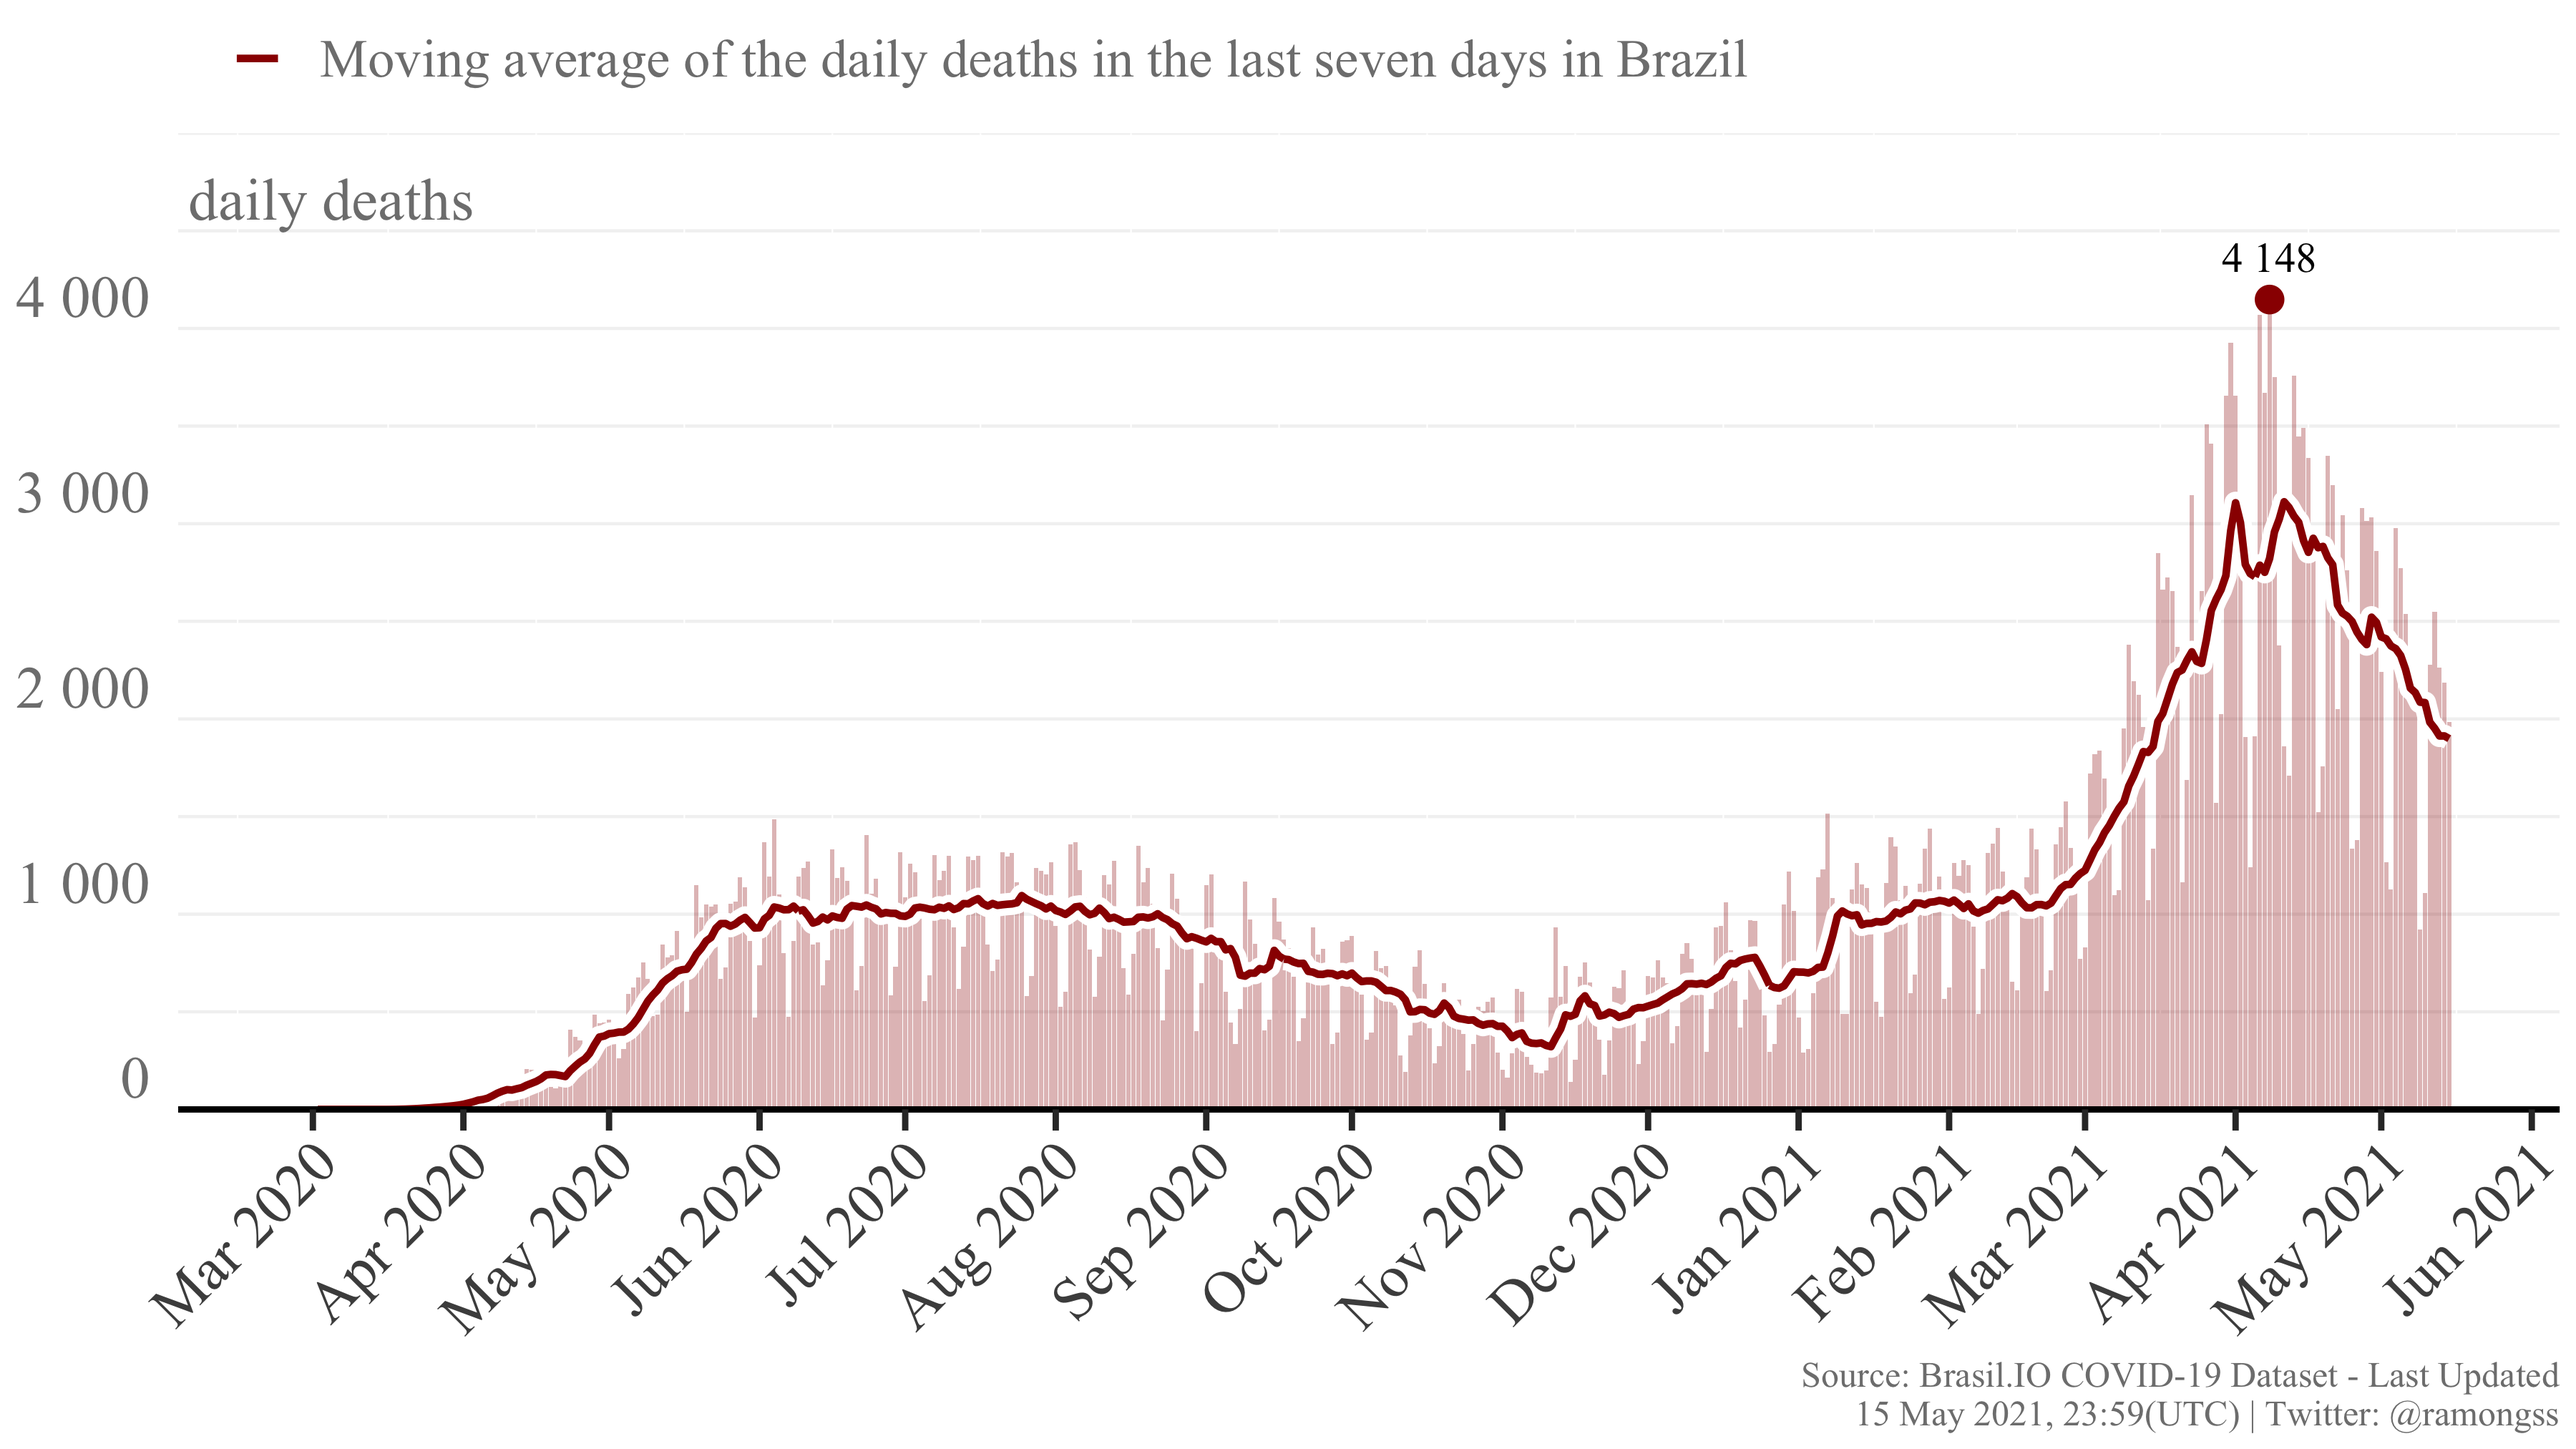
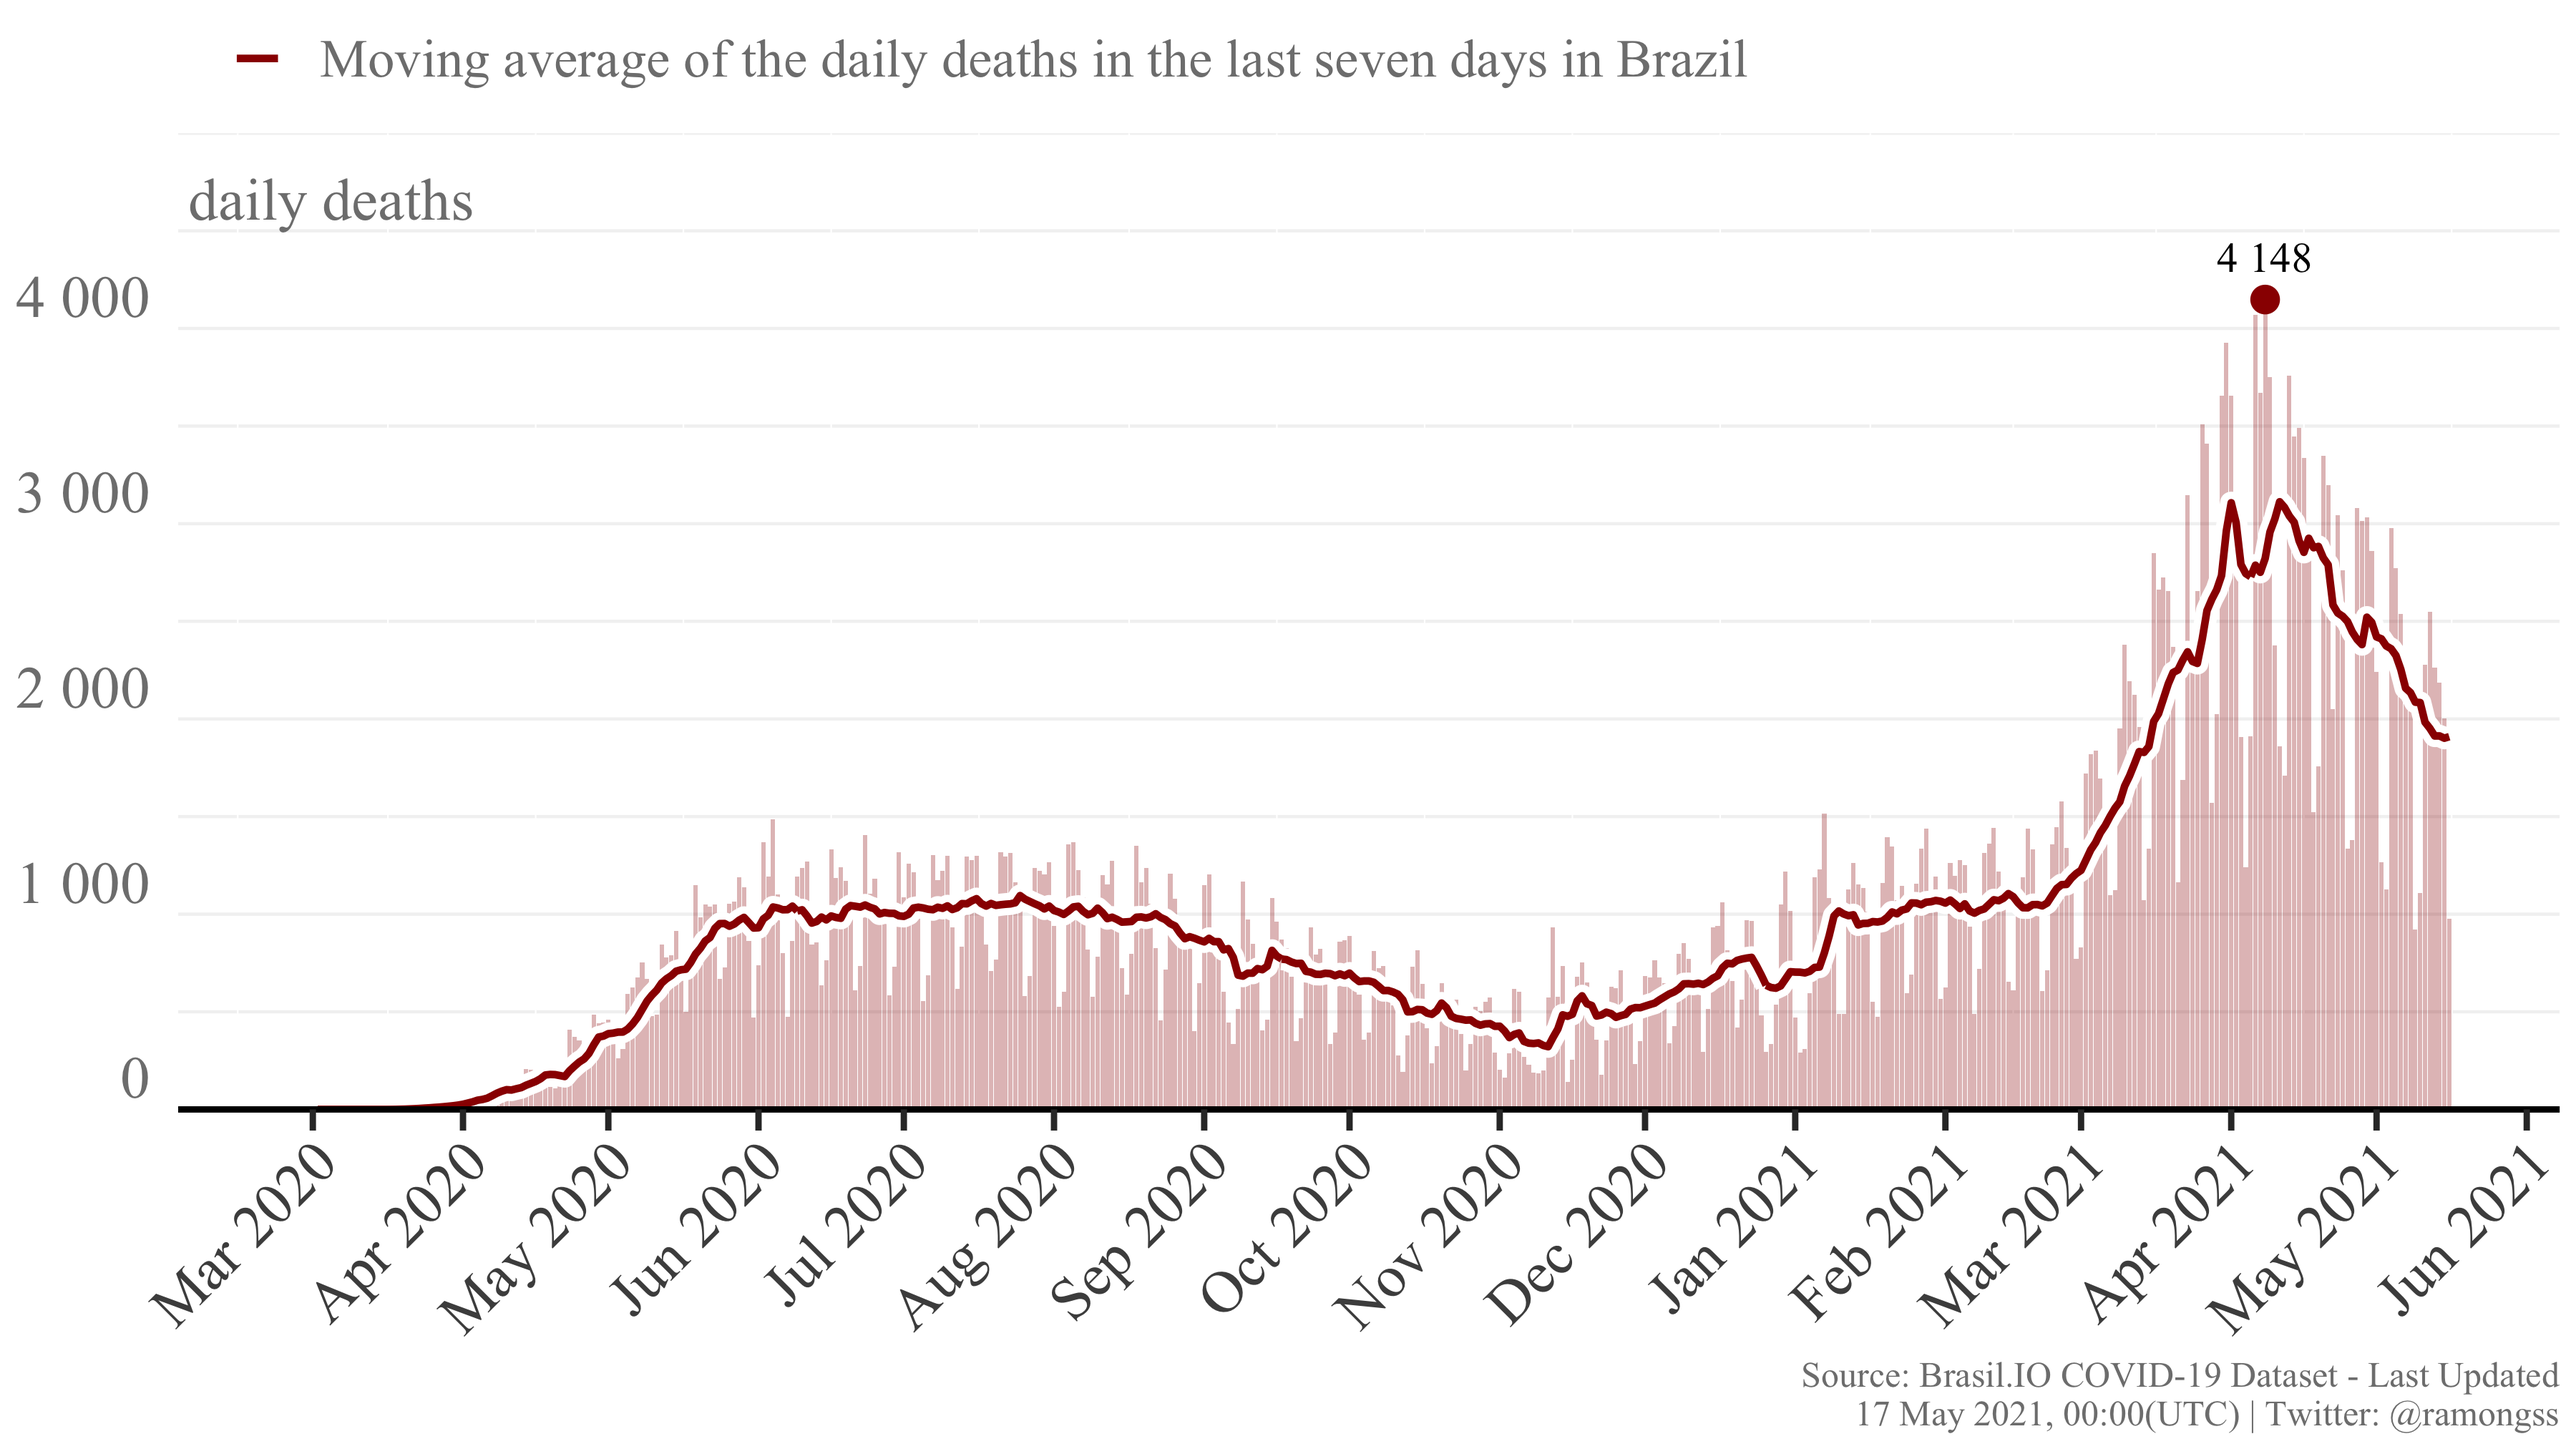
Re-build README.Rmd

diff --git a/README.md b/README.md
@@ -27,8 +27,8 @@ download_brasilio_table <- function(dataset = "covid19", table_name){
 
 ## COVID-19 Confirmed cases
 
-Currently, Brazil has a total of **15,596,139** confirmed cases at **15
-May, 2021**, with **64,643** new confirmed cases. The daily maximum
+Currently, Brazil has a total of **15,632,584** confirmed cases at **16
+May, 2021**, with **33,439** new confirmed cases. The daily maximum
 incidence was **98,261** confirmed cases at **25 Mar, 2021**. Here
 follows the Figure showing the confirmed case incidence as the bars, and
 the line as the moving average of the last 7 days.
@@ -37,8 +37,8 @@ the line as the moving average of the last 7 days.
 
 ## COVID-19 Deaths
 
-Currently, Brazil has a total of **435,008** deaths at **15 May, 2021**,
-with **1,984** new deaths. The daily maximum deaths incidence was
+Currently, Brazil has a total of **436,001** deaths at **16 May, 2021**,
+with **976** new deaths. The daily maximum deaths incidence was
 **4,148** deaths at **08 Apr, 2021**. Here follows the Figure showing
 the deaths incidence as the bars, and the line as the moving average of
 the last 7 days.
@@ -49,4 +49,4 @@ the last 7 days.
 
 This page is daily updated automatically using Github Actions.
 
-*Last update: 15 May 2021, 23:59 (UTC).*
+*Last update: 17 May 2021, 00:00 (UTC).*
